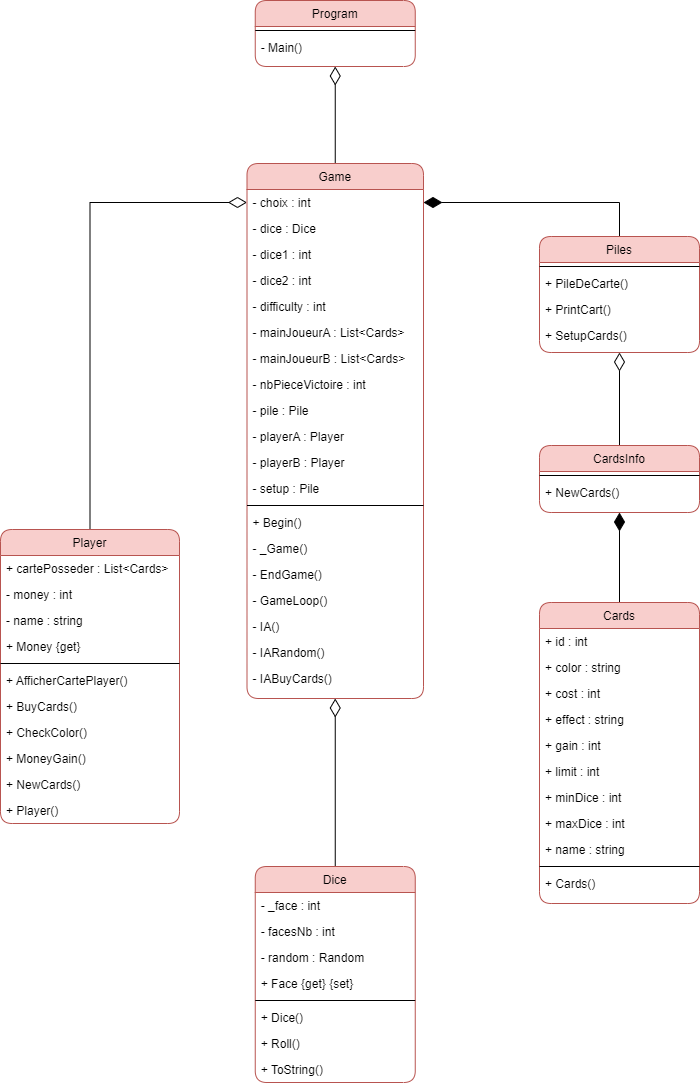
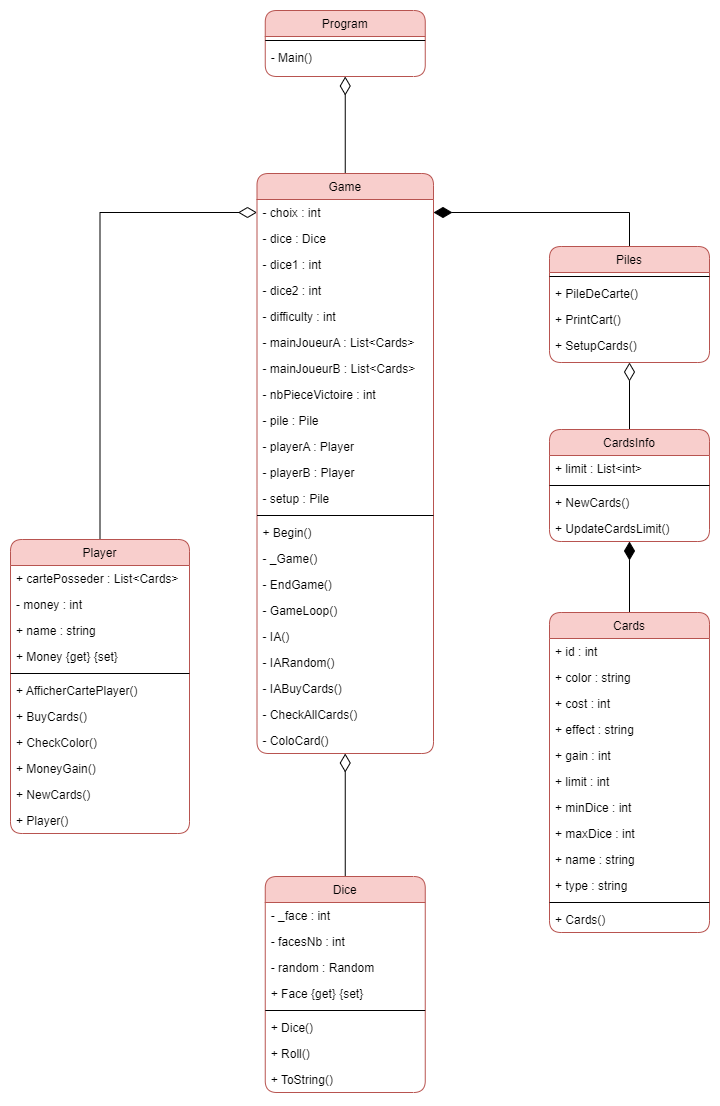
Update Diagramme

diff --git a/MinivilleConsole/MinivilleConsole/Game.cs b/MinivilleConsole/MinivilleConsole/Game.cs
@@ -390,9 +390,14 @@ namespace MinivilleConsole
             //Sinon on continue
             if (!haveAWinner)
             {
-                Console.ForegroundColor = ConsoleColor.White;
-                Console.WriteLine("\nCombien de dé(s) voulez-vous lancer ?");
-                int nbDe = int.Parse(Console.ReadLine());
+                int nbDe;
+                do
+                {
+                    Console.ForegroundColor = ConsoleColor.White;
+                    Console.WriteLine("\nCombien de dé(s) voulez-vous lancer ?");
+                    nbDe = int.Parse(Console.ReadLine());
+                }
+                while (nbDe < 1 || nbDe > 2);
                 _Game(playerA, playerB, nbDe);
             }
 

diff --git a/MinivilleConsole/MinivilleConsole/Cards.cs b/MinivilleConsole/MinivilleConsole/Cards.cs
@@ -26,13 +26,13 @@ namespace MinivilleConsole
 			this.id = id;
 			this.limit = limit;
 			this.color = color;
-      this.type = type;
+            this.type = type;
 			this.cost = cost;
 			this.name = name;
 			this.effect = effect;
 			this.maxDice = maxDice;
 			this.minDice = minDice;
-      this.gain = gain;
+            this.gain = gain;
         }
     }
 }
